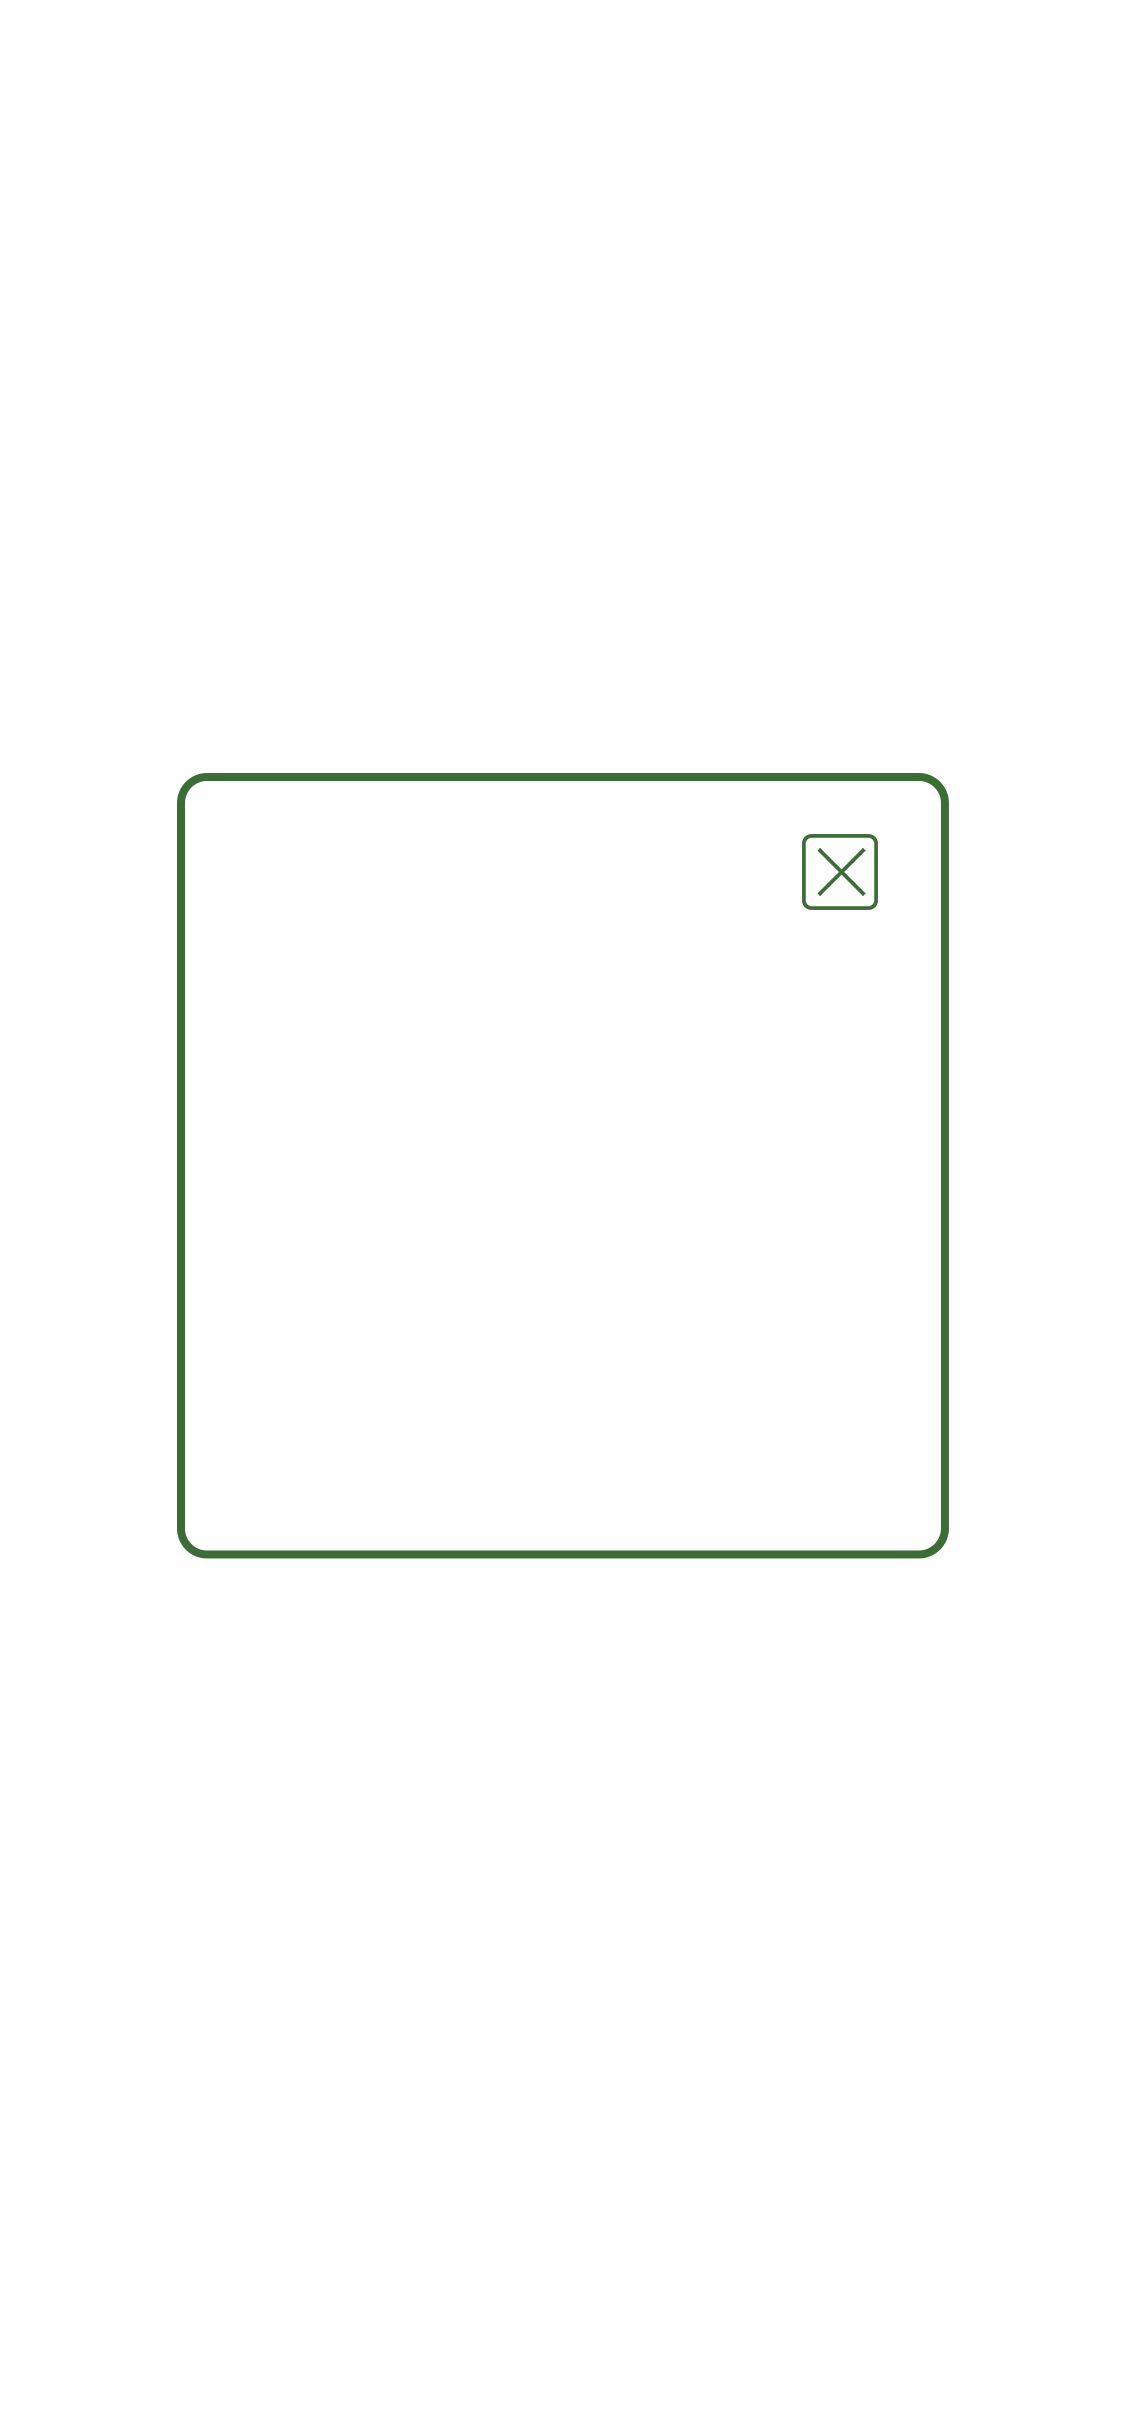
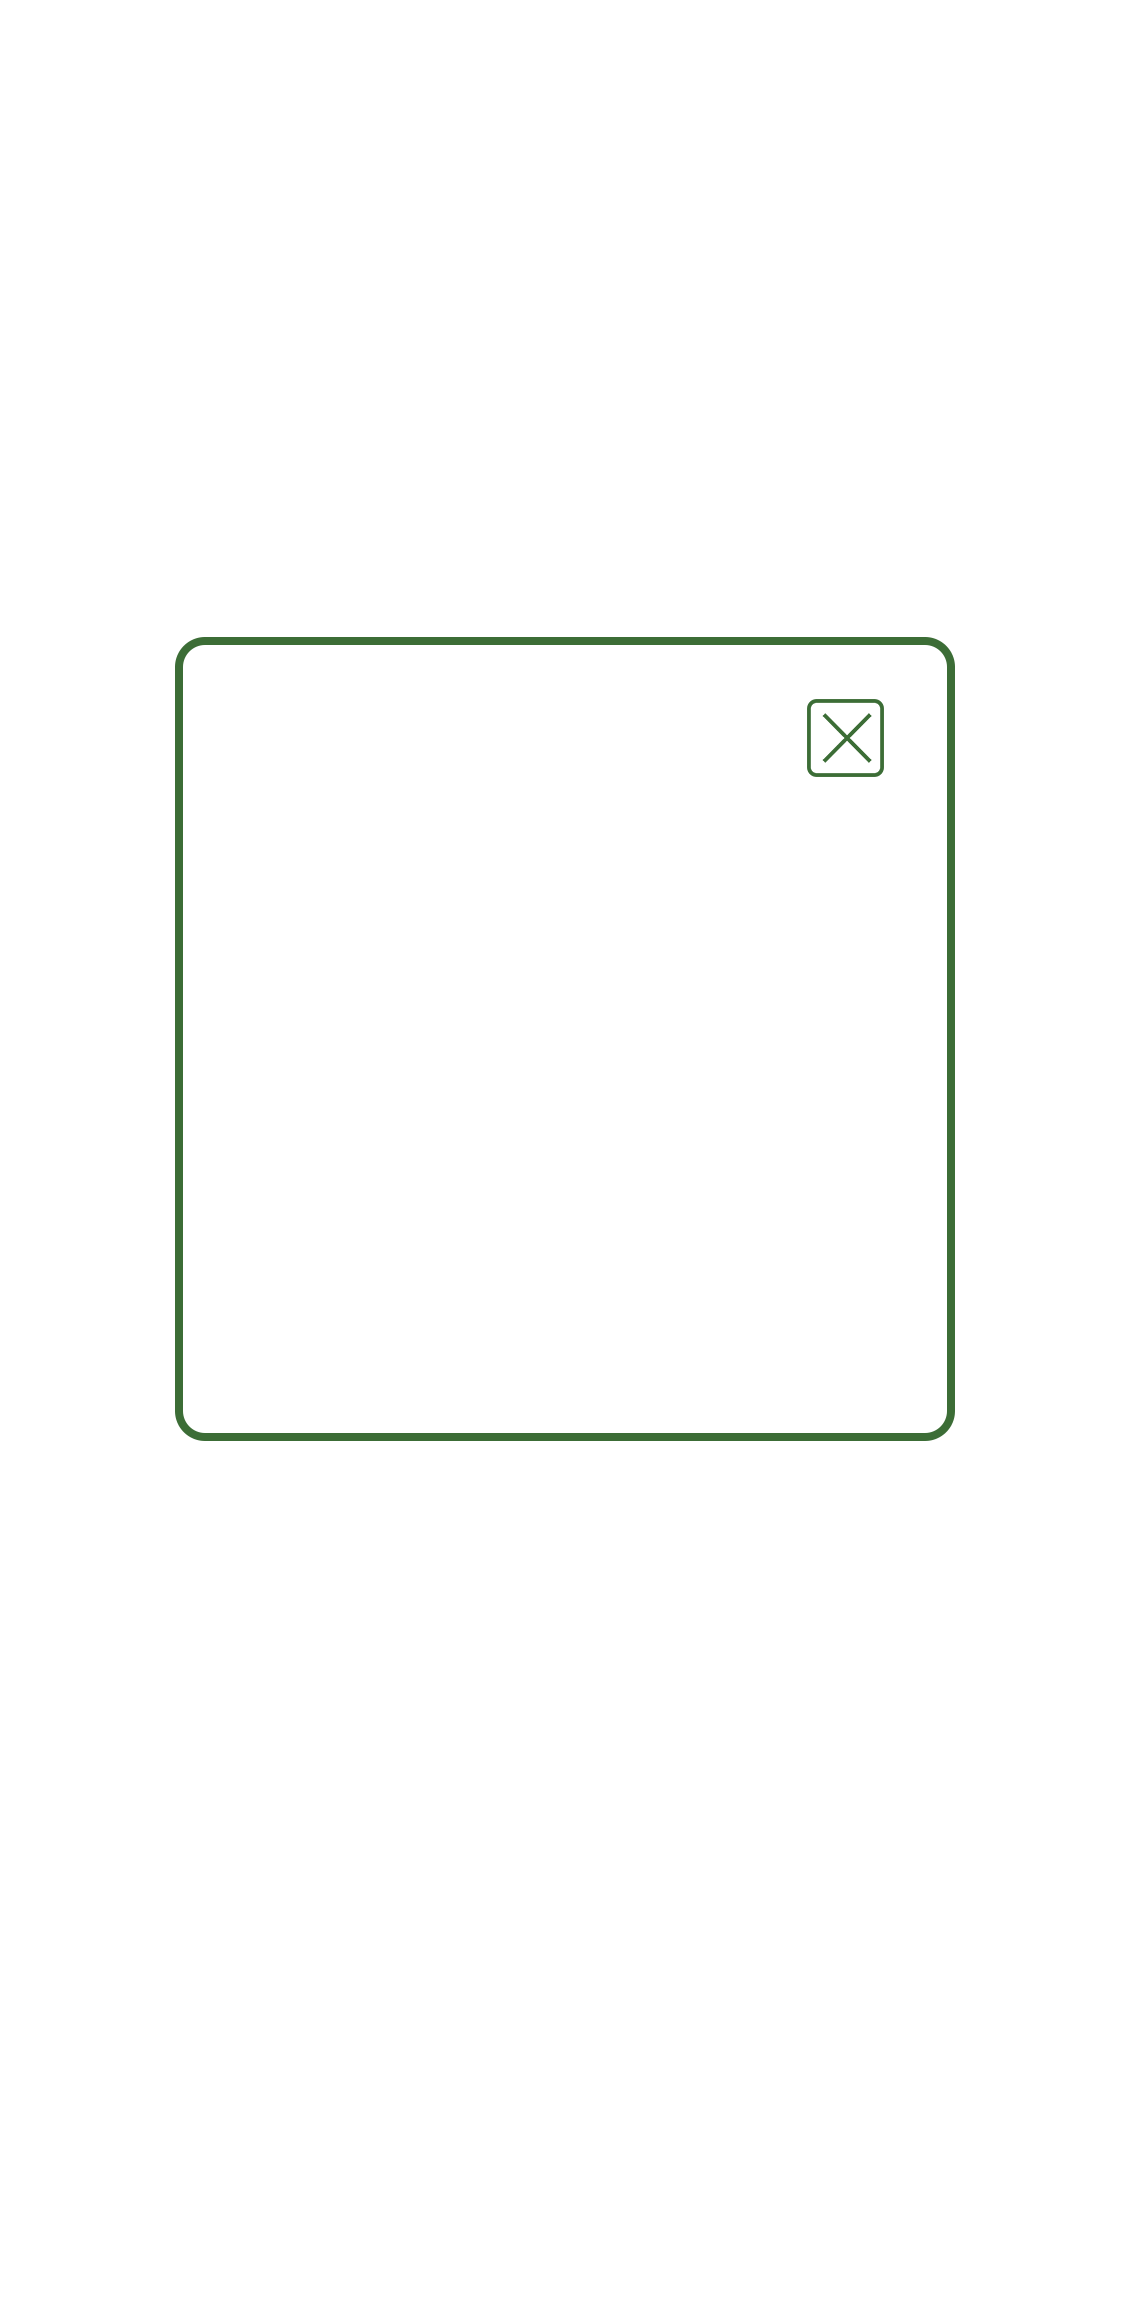
修改尺寸

Changed region(s): [[0.1556, 0.2808, 0.8711, 0.6551], [0.1867, 0.2496, 0.84, 0.2808]]

diff --git a/左庭右院/css/style.css b/左庭右院/css/style.css
@@ -77,117 +77,117 @@ body {
 .btn-rule {
   width: 12%;
   height: 6%;
-  top: 6%;
-  left: 84%;
+  top: 4%;
+  left: 83%;
   z-index: 9999;
 }
 .btn-start {
   width: 36%;
   height: 6%;
-  top: 80%;
+  top: 68%;
   left: 32%;
 }
 .btn-colse {
   width: 9%;
   height: 5%;
-  top: 16%;
-  left: 80%;
+  top: 9%;
+  left: 76%;
 }
 .btn-tops {
-  width: 43%;
+  width: 39%;
   height: 7%;
-  top: 79%;
-  left: 50%;
+  top: 69%;
+  left: 49%;
 }
 .btn-rules {
   width: 41%;
   height: 7%;
-  top: 79%;
+  top: 69%;
   left: 8%;
 }
 .btn-know {
   width: 36%;
   height: 6%;
-  top: 81%;
-  left: 34%;
+  top: 68%;
+  left: 31%;
 }
 .btn-1 {
   width: 21%;
   height: 13%;
-  top: 41%;
+  top: 31%;
   left: 2%;
 }
 .btn-2 {
   width: 21%;
   height: 5%;
-  top: 43%;
+  top: 33%;
   left: 27%;
 }
 .btn-3 {
   width: 21%;
   height: 5%;
-  top: 44%;
+  top: 34%;
   left: 49%;
 }
 .btn-4 {
   width: 21%;
   height: 12%;
-  top: 42%;
+  top: 32%;
   left: 75%;
 }
 .btn-5 {
   width: 15%;
   height: 5%;
-  top: 47%;
+  top: 38%;
   left: 25%;
 }
 .btn-6 {
   width: 12%;
   height: 7%;
-  top: 54%;
+  top: 44%;
   left: 20%;
 }
 .btn-7 {
   width: 15%;
   height: 8%;
-  top: 51%;
+  top: 41%;
   left: 31%;
 }
 .btn-8 {
   width: 27%;
   height: 10%;
-  top: 48%;
+  top: 38%;
   left: 48%;
 }
 .btn-9 {
   width: 21%;
   height: 11%;
-  top: 53%;
+  top: 43%;
   left: 76%;
 }
 .btn-10 {
   width: 36%;
   height: 6%;
-  top: 81%;
-  left: 33%;
+  top: 68%;
+  left: 31%;
 }
 .img-hand {
   width: 17.3%;
   height: auto;
-  top: 49%;
+  top: 43%;
   left: 45%;
 }
 .btn-tips {
   width: 36%;
   height: 6%;
-  top: 72%;
+  top: 68%;
   left: 32%;
 }
 .nums {
-  width: 62%;
+  width: 60%;
   height: 7%;
-  top: 27%;
-  left: 19%;
+  top: 19%;
+  left: 20%;
 }
 .nums span{
   display: inline-block;
@@ -211,8 +211,8 @@ body {
 .games {
   width: 92%;
   height: 42%;
-  top: 37%;
-  left: 6%;
+  top: 29%;
+  left: 6.5%;
   overflow: hidden;
 }
 .games img {
@@ -220,9 +220,9 @@ body {
   margin: 2px 2px;
 }
 .btn-source {
-  top: 80%;
-  left: 79%;
-  width: 20%;
+  top: 73%;
+  left: 36%;
+  width: 28%;
   height: 3%;
   font-size: 16px;
   color: #dddfda;
@@ -236,8 +236,8 @@ body {
 .btn-success {
   width: 36%;
   height: 6%;
-  top: 54%;
-  left: 33%;
+  top: 48%;
+  left: 32%;
 }
 
 .p-rule {
@@ -255,7 +255,7 @@ body {
 .pos-info {
   width: 59%;
   height: 34%;
-  top: 35%;
+  top: 31%;
   left: 20%;
   font-size: 20px;
   text-align: center;
@@ -279,10 +279,10 @@ body {
   margin-top: -5%;
 }
 .btn-info-close {
-  width: 11%;
+  width: 13%;
   height: 10%;
-  top: 7%;
-  left: 82%;
+  top: -3%;
+  left: 87%;
 }
 
 .mask,
@@ -320,10 +320,10 @@ body {
   left: 19%;
 }
 .pos-tops {
-  width: 78%;
-  height: 58%;
-  top: 20.5%;
-  left: 11%;
+  width: 75%;
+  height: 53%;
+  top: 16%;
+  left: 13%;
   overflow: auto;
 }
 .pos-tops .item {
@@ -359,6 +359,7 @@ body {
   width: 20%;
   height: 60px;
   overflow: hidden;
+  float: left;
 }
 .pos-tops .item.one .ava {
   background: url('../img/icon_1.png') no-repeat center;
@@ -404,12 +405,15 @@ body {
   padding-left: 2%;
   width: 28%;
   height: 60px;
+  line-height: 60px;
   overflow: hidden;
+  float: left;
 }
 .pos-tops .item .min {
   display: inline-block;
   width: 32%;
   overflow: hidden;
+  float: left;
 }
 
 .ani {

diff --git a/左庭右院/index.html b/左庭右院/index.html
@@ -75,7 +75,7 @@
           <img data-order="9" src="img/game/game9.jpg">
         </div>
       </div>
-      <a href="javascript:;" class="pos btn-source">查看原图</a>
+      <a href="javascript:;" class="pos btn-source"></a>
       <div class="pos jq-tips">
         <img src="img/tips.png" class="pos" />
         <img src="img/hand.png" class="pos ani img-hand" />
@@ -93,19 +93,19 @@
         <div class="item one">
           <span class="num">1</span>
           <div class="ava"><img src="img/hand.png"></div>
-          <span class="name">微信名</span>
-          <span class="min">00:00:000</span>
+          <span class="name">小胡小小</span>
+          <span class="min">00:06:100</span>
         </div>
         <div class="item two">
           <span class="num">2</span>
           <div class="ava"><img src="img/hand.png"></div>
-          <span class="name">微信名</span>
+          <span class="name">123微信名1231231</span>
           <span class="min">00:00:000</span>
         </div>
         <div class="item three">
           <span class="num">3</span>
           <div class="ava"><img src="img/hand.png"></div>
-          <span class="name">微信名</span>
+          <span class="name">12微信名</span>
           <span class="min">00:00:000</span>
         </div>
         <div class="item">
@@ -205,7 +205,7 @@
       $('.mask-info').hide()
     })
     $('.btn-start').click(() => {
-    	if(!checkUser()) return;
+    	// if(!checkUser()) return;
       $('.mask-know').show().css({
         top: -1000
       })
@@ -265,6 +265,11 @@
     })
     $('.btn-submit').click(() => {
       let mobile = $('.ipt-phone').val()
+      const reg = /^(?:(?:\+|00)86)?1[3-9]\d{9}$/g
+      if (!reg.test(mobile)) {
+        alert('手机号格式不正确！')
+        return false
+      }
       // muGet(config.create + '?mobile=' + mobile)
       window.location.href = config.create + '?mobile=' + mobile
       $('.mask-phone').hide()
